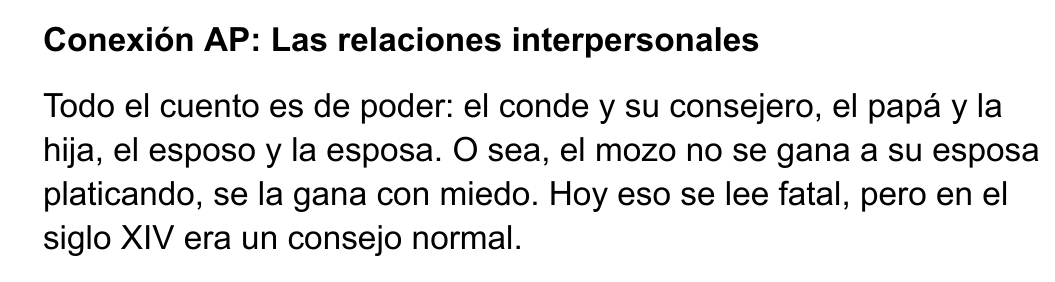
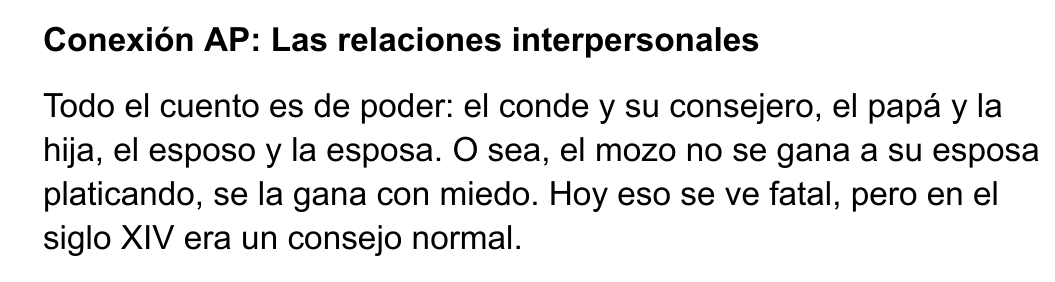
Lucanor AP: se ve fatal

Changed region(s): [[0.6673, 0.6241, 0.9706, 0.766]]

diff --git a/js/content.js b/js/content.js
@@ -53,7 +53,7 @@ export const DATA = {
     ]
    ],
    "ap_tema": "Las relaciones interpersonales",
-   "ap_texto": "Todo el cuento es de poder: el conde y su consejero, el papá y la hija, el esposo y la esposa. O sea, el mozo no se gana a su esposa platicando, se la gana con miedo. Hoy eso se lee fatal, pero en el siglo XIV era un consejo normal.",
+   "ap_texto": "Todo el cuento es de poder: el conde y su consejero, el papá y la hija, el esposo y la esposa. O sea, el mozo no se gana a su esposa platicando, se la gana con miedo. Hoy eso se ve fatal, pero en el siglo XIV era un consejo normal.",
    "cuadro": "Phébus, G. (ca. 1400). Livre de la chasse [Miniatura]. Wikimedia Commons.",
    "resumen_tipo": "Línea del tiempo",
    "guion": "Bienvenidos a la sala medieval. Aquí está el exemplo treinta y cinco de El conde Lucanor, de don Juan Manuel, de 1335. El tema es quién manda en el matrimonio: un joven pobre se casa con una mujer de carácter bien fuerte y, en la noche de bodas, mata a su perro, a su gato y a su caballo porque no le obedecen. Entonces ella, asustada, le hace caso en todo. Para entenderlo hay que ubicarse: es la Castilla del siglo catorce, una sociedad feudal y bien machista, y el libro era para aconsejar a los nobles. Mira, lo más interesante es cómo está armado: es un cuento dentro de otro, porque el conde le pide consejo a Patronio y él le contesta con esta historia. El narrador va en tercera persona, exagera todo y cierra con una moraleja en verso: si al comienzo no muestras quién eres, nunca podrás después.",
